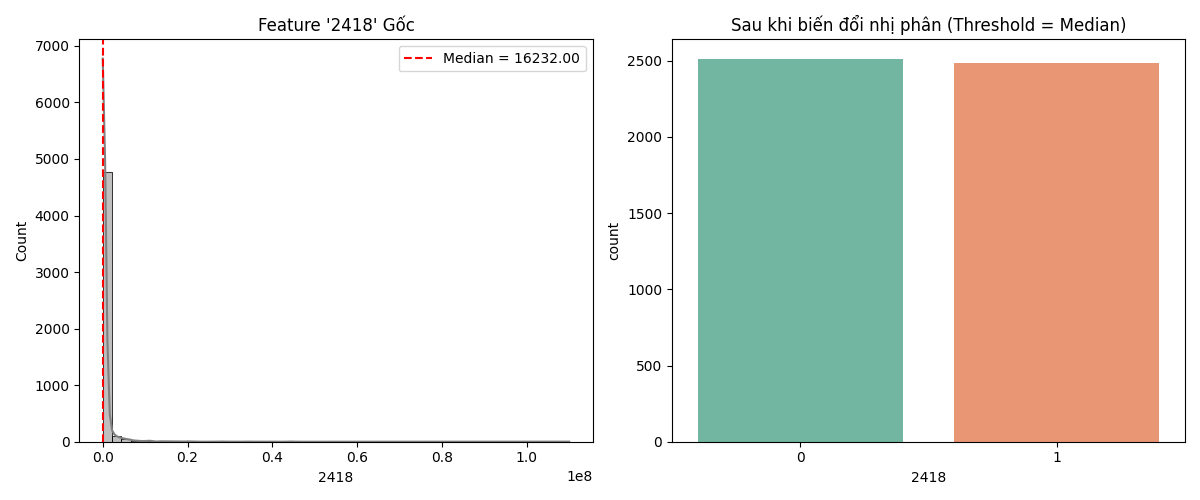
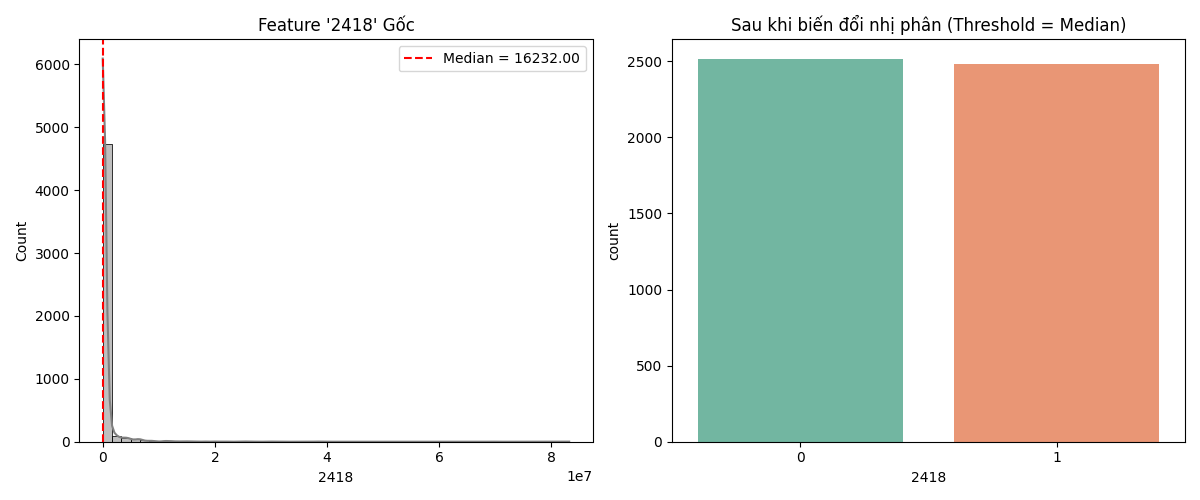
update

diff --git a/final_pipeline.py b/final_pipeline.py
@@ -156,6 +156,52 @@ plt.tight_layout()
 plt.show()
 
 # ============================================================
+# ĐÁNH GIÁ TRÊN TẬP KẾT HỢP (Nhãn 0 từ Test, Nhãn 1 từ Challenge)
+# ============================================================
+print("\n=== BẮT ĐẦU ĐÁNH GIÁ TRÊN TẬP KẾT HỢP ===")
+
+# Lọc nhãn 0 ở tập test
+mask_test_0 = (y_test == 0)
+X_test_0 = X_test[mask_test_0]
+y_test_0 = y_test[mask_test_0]
+
+# Lọc nhãn 1 ở tập challenge
+mask_challenge_1 = (y_challenge == 1)
+X_challenge_1 = X_challenge[mask_challenge_1]
+y_challenge_1 = y_challenge[mask_challenge_1]
+
+# Ghép lại dữ liệu
+X_combined = pd.concat([X_test_0, X_challenge_1], axis=0).reset_index(drop=True)
+y_combined = pd.concat([y_test_0, y_challenge_1], axis=0).reset_index(drop=True)
+
+print(f"Kích thước tập kết hợp: {X_combined.shape}")
+print(f"- Số lượng nhãn 0 (từ Test): {len(y_test_0)}")
+print(f"- Số lượng nhãn 1 (từ Challenge): {len(y_challenge_1)}")
+
+y_prob_combined = model.predict_proba(X_combined)[:, 1]
+y_pred_combined = (y_prob_combined >= 0.5).astype(int)
+
+acc_combined = accuracy_score(y_combined, y_pred_combined)
+roc_auc_combined = roc_auc_score(y_combined, y_prob_combined)
+
+print(f"\nĐộ chính xác (Accuracy): {acc_combined:.4f}")
+print(f"ROC AUC Score:           {roc_auc_combined:.4f}")
+print("\n--- Báo cáo chi tiết (Classification Report) ---")
+print(classification_report(y_combined, y_pred_combined, target_names=['Benign (0/Test)', 'Malware (1/Challenge)'], digits=4))
+
+# Vẽ Confusion Matrix cho tập kết hợp
+cm_combined = confusion_matrix(y_combined, y_pred_combined)
+plt.figure(figsize=(6, 5))
+sns.heatmap(cm_combined, annot=True, fmt='d', cmap='Blues',
+            xticklabels=['Dự đoán Benign', 'Dự đoán Malware'],
+            yticklabels=['Thực tế Benign', 'Thực tế Malware'])
+plt.xlabel('Nhãn dự đoán')
+plt.ylabel('Nhãn thực tế')
+plt.title('Confusion Matrix — Tập kết hợp (0 Test + 1 Challenge)')
+plt.tight_layout()
+plt.show()
+
+# ============================================================
 # BIỂU ĐỒ ĐỘ QUAN TRỌNG CỦA ĐẶC TRƯNG (FEATURE IMPORTANCE)
 # ============================================================
 lgb.plot_importance(model, max_num_features=20, importance_type='gain',
